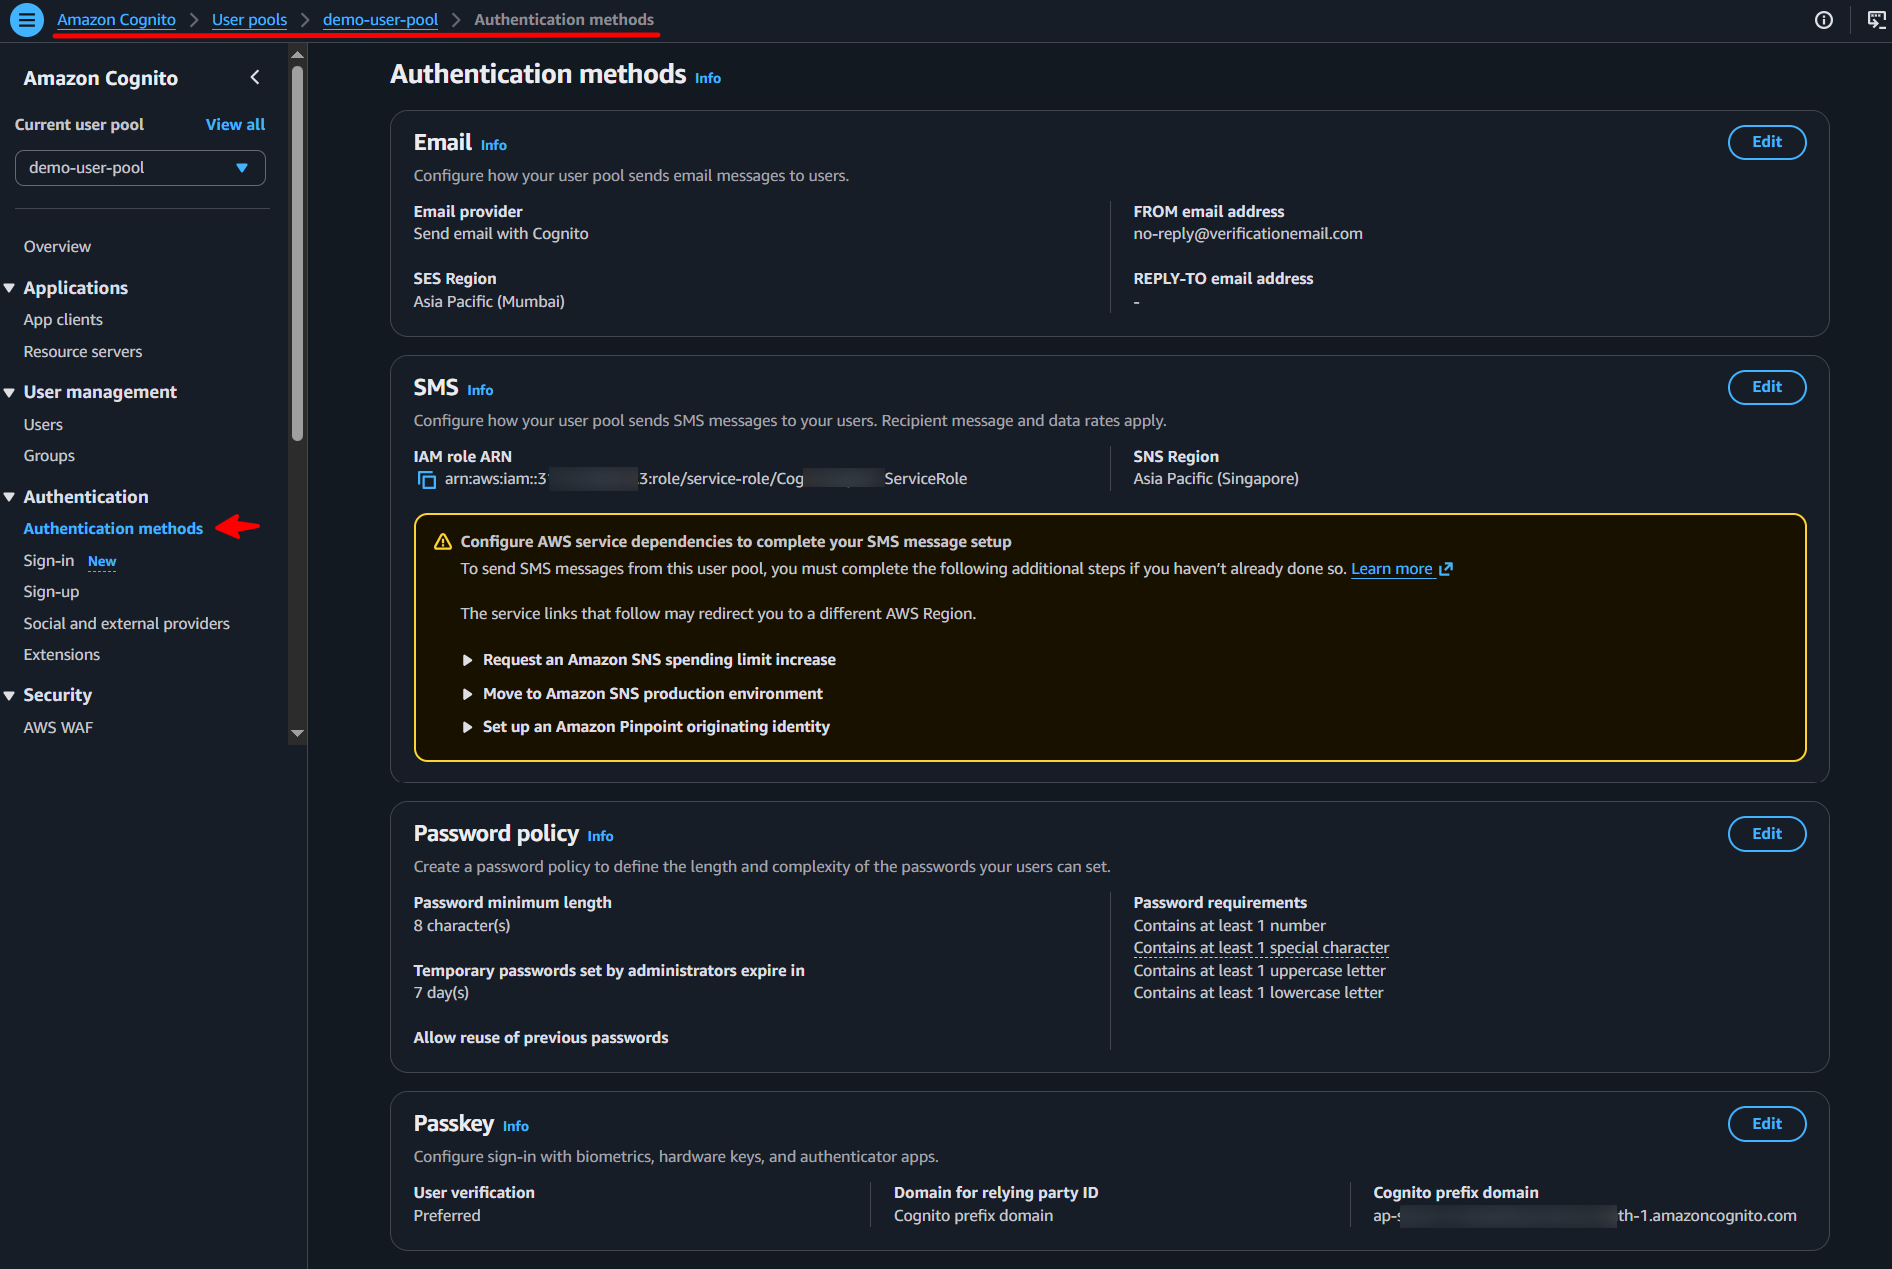
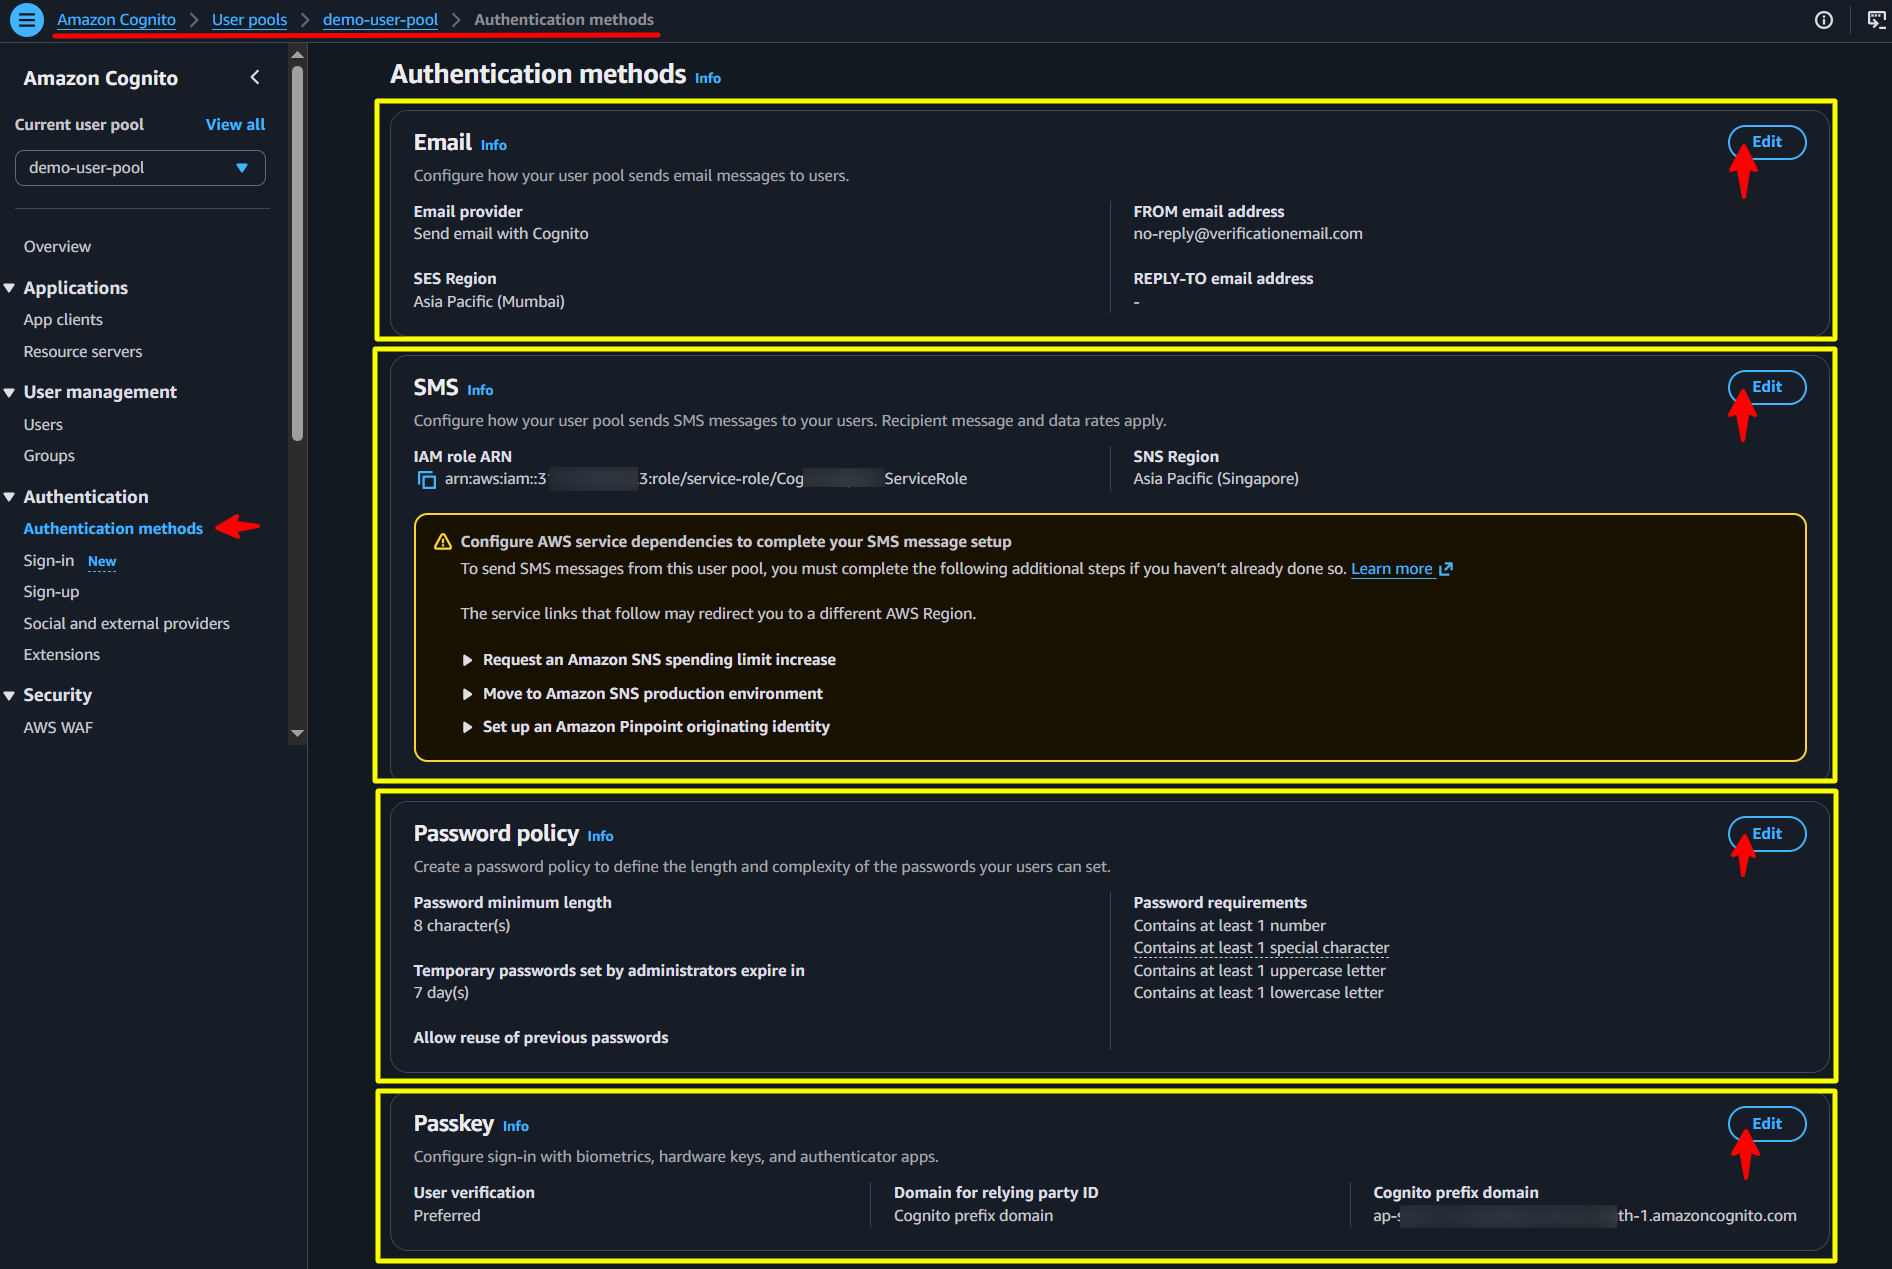
doc: update the config for authentication methods configuration.

diff --git a/docs/COGNITOCONFIG.md b/docs/COGNITOCONFIG.md
@@ -150,7 +150,20 @@ You can also assign users to these groups by navigating to the newly created gro
 ![AWS Cognito - Login Page Settings](../assets/images/aws_cognito_flow17.png)
 
 
-### *Step 10: Sign-in Settings*
+### *Step 10: Authentication Method Settings*
+
+In the **Authentication Methods** settings, you can configure the authentication methods that users can use to sign in to your application. There are multiple important settings that you can configure in this section as shown in the image below.
+
+![AWS Cognito - Authentication Method Settings](../assets/images/aws_cognito_flow20.png)
+
+Key settings to consider include:
+- Email Configuration: Configure the email settings for your user pool. You can choose to use the default Amazon Cognito email service or configure a custom email provider.
+- SMS Configuration: Configure the SMS settings for your user pool. You can choose to use the default Amazon Cognito SMS service or configure a custom SMS provider.
+- Password Policy: Configure the password policy for your user pool. You can set requirements for password length, complexity, and expiration.
+- Passkey Configuration: Configure the passkey policy for your user pool.
+
+
+### *Step 11: Sign-in Settings*
 
 In the **Sign-in** settings, you can configure the attributes that users can use to sign in to your application.
 
@@ -165,7 +178,7 @@ Select the account recovery settings based on your application requirements. You
 Select the options as shown in the image above. However, for the advanced users, you can change the settings based on your application requirements.
 
 
-### *Step 11: Sign-up Settings*
+### *Step 12: Sign-up Settings*
 
 In the **Sign-up** settings, you can configure the attributes that users need to provide during registration.
 
@@ -183,7 +196,7 @@ In order to enable self-registration, select the **Self-service sign-up** sectio
 ![AWS Cognito - Sign-up Settings](../assets/images/aws_cognito_flow27.png)
 
 
-### *Step 12: Amend Message Templates* (Optional)
+### *Step 13: Amend Message Templates* (Optional)
 
 In the **Message Templates** settings, under the **Branding** subsection, you can customize the email and SMS messages sent to users during various stages of the authentication process, such as account verification, password reset, and multi-factor authentication.
 
@@ -199,4 +212,5 @@ Select the template in the list, and click on the **Edit** button to customize t
 - [AWS Cognito User Pool Settings](https://docs.aws.amazon.com/cognito/latest/developerguide/cognito-user-pools.html)
 - [Import a user CSV file to your Cognito Pool](https://docs.aws.amazon.com/cognito/latest/developerguide/cognito-user-pools-using-import-tool.html)
 - [AWS Cognito App Client Settings](https://docs.aws.amazon.com/cognito/latest/developerguide/user-pool-settings-client-apps.html)
+- [AWS Cognito Password Policy](https://docs.aws.amazon.com/cognito/latest/developerguide/managing-users-passwords.html#user-pool-settings-policies)
 - [AWS Cognito Security](https://docs.aws.amazon.com/cognito/latest/developerguide/security.html)
